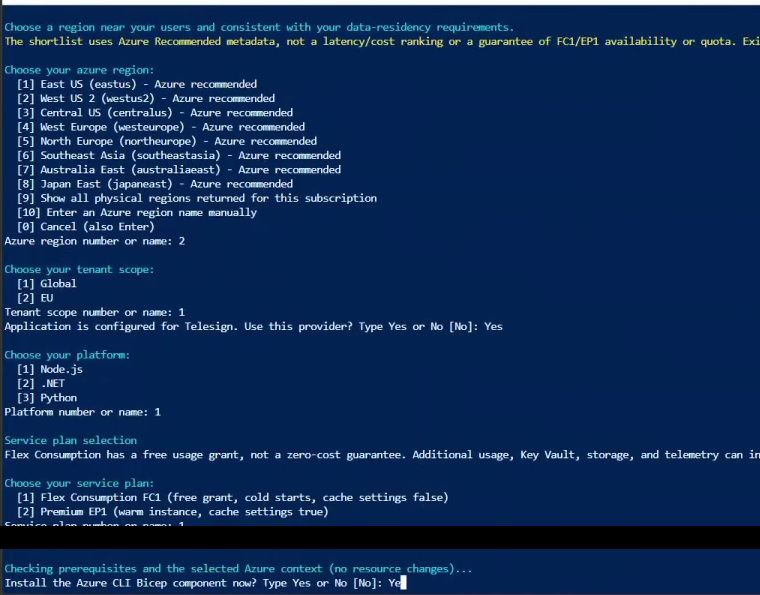
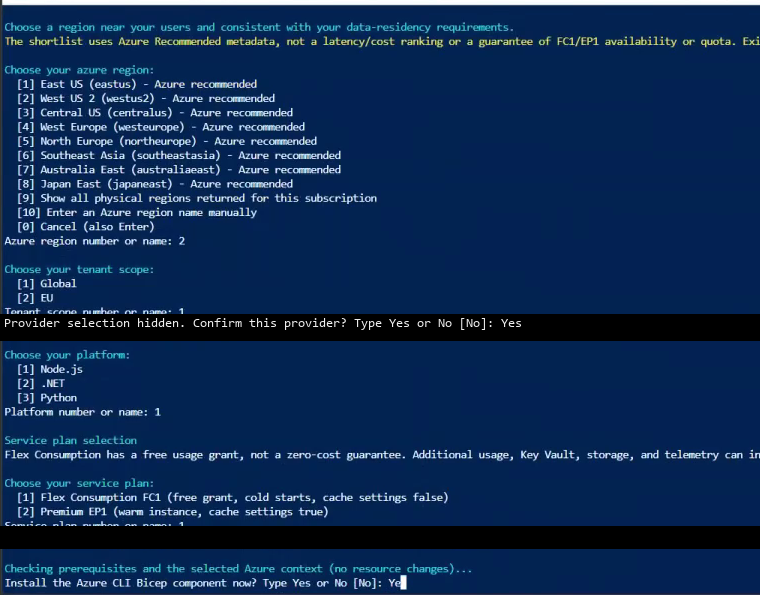
docs: tighten Cloud Shell screenshot redactions
Copilot-Session: 4287dddb-69ba-40d9-81da-80365f632af1

Changed region(s): [[0.0, 0.5143, 1.0, 0.5748]]

diff --git a/docs/GETTING-STARTED.md b/docs/GETTING-STARTED.md
@@ -109,7 +109,8 @@ Select the tenant, subscription, application **client ID**, and region. Then cho
 
 ![Azure Cloud Shell prompts for region, tenant scope, platform, hosting plan, and prerequisites](images/onboarding/cloud-shell-choose-options.png)
 
-*The example selections illustrate the prompt sequence; the resource prefix is hidden.*
+*The example selections illustrate the prompt sequence; provider-specific confirmation and the
+resource prefix are hidden.*
 
 Complete required sign-in, MFA, or administrator consent. Resolve preflight errors before approval.
 
@@ -129,11 +130,13 @@ Wait for **Deployment completed** and the saved summary before Step 4. Setup cre
 App, storage, Key Vault, identities, and monitoring. Do not precreate these resources.
 Keep `epp-output` private. Its [summary](../setup/docs/README.md#read-the-deployment-summary)
 identifies the resources, endpoint, app, and encryption key. No private key is downloaded.
+Cloud Shell sessions are ephemeral, so securely download or otherwise retain the private
+`epp-output` deployment summary and public certificate before closing the session.
 
 ![Azure Cloud Shell deployment completion summary with private deployment values hidden](images/onboarding/cloud-shell-deployment-complete.png)
 
 *The completion summary identifies the resources and next steps. Resource names, identifiers,
-paths, certificate details, and endpoint values are hidden.*
+paths, certificate details, endpoint values, and provider-specific credential labels are hidden.*
 
 Setup verifies the private-key reference and **Easy Auth** before opening public access. Keep
 Easy Auth enabled. If setup fails, use the
